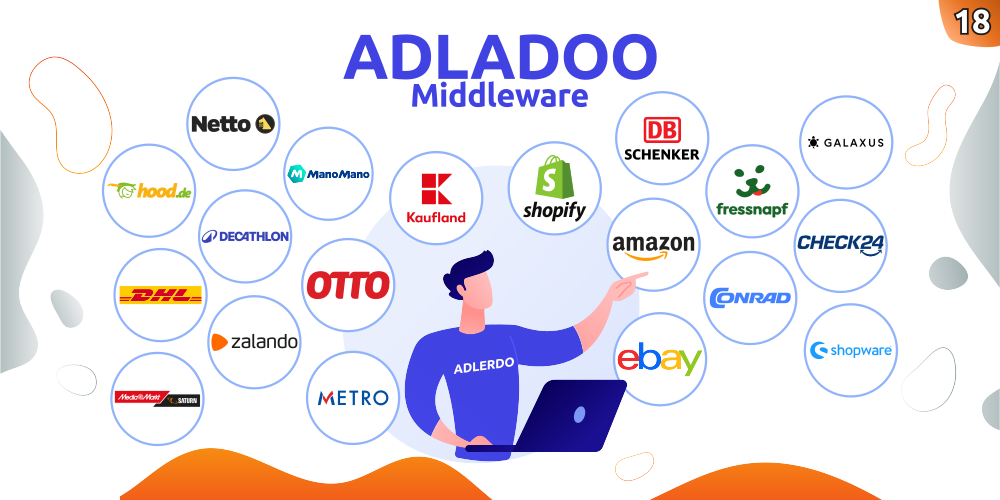
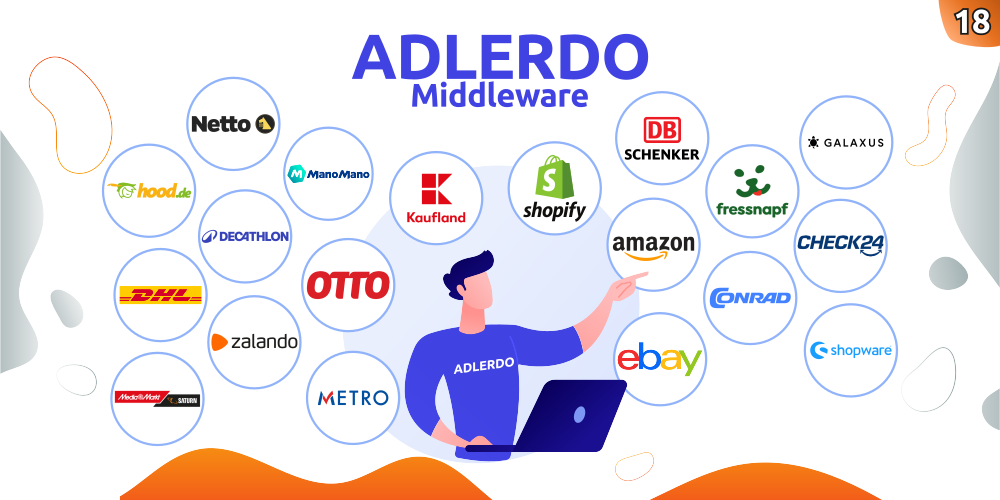
fix: Correct module name to AdlerDo and update marketing content
Renamed the module from "AdlaDoo Connector Lite" to "AdlerDo – Multichannel E-Commerce & EDI Middleware for Odoo" in the manifest.

Updated index.html description and banner image to reflect correct branding.

Changed region(s): [[0.341, 0.06, 0.682, 0.18]]

diff --git a/adlerdo_connector_lite/static/description/index.html b/adlerdo_connector_lite/static/description/index.html
@@ -1,7 +1,7 @@
 <section class="oe_container oe_dark">
     <div class="col-md-12">
         <h2 class="oe_slogan" style="font-size: 35px; color: #2C0091;">
-            <b>A Central Solution for Amazon, eBay, Kaufland and More</b>
+            <b>AdlerDo – Multichannel E-Commerce & EDI Middleware for Odoo</b>
         </h2>
     </div>
 </section>
@@ -9,66 +9,114 @@
 <section class="oe_container">
     <div class="col-md-12">
         <h2 class="oe_slogan" style="font-size: 22px; color: #000000;">
-            With the <strong>AdlaDoo Middleware</strong>, you manage your product, order, and inventory data across all marketplaces reliably, automatically, and fully under your control.<br/><br/>
-            Installed on your own Windows system, AdlaDoo offers <strong>maximum data security</strong>, <strong>full transparency</strong>, and <strong>significant time savings</strong> in your daily operations.<br/><br/>
-            No cloud dependency, no data leaks, no compromises.<br/>
-            Just one powerful tool that truly simplifies your multichannel sales whether you are selling on Amazon, eBay, Kaufland, Otto, or other platforms.<br/><br/>
-            <strong>AdlaDoo is more than just an interface</strong>  it is your <strong>central control unit</strong> for all marketplace processes:
-            from automated order processing to price and stock synchronization with your ERP system.<br/><br/>
-            Ideal for online retailers, wholesalers, and ERP based businesses that want to grow without giving up control of their operations.
+            Boost your E-Commerce with seamless integrations to Amazon, eBay, Kaufland, MediaMarkt, Otto & more. Built for Odoo.
         </h2>
     </div>
 </section>
 
 <section class="oe_container">
-    <div class="oe_row oe_spaced">
-        <h3 class="oe_slogan" style="font-size: 30px; color: #2C0091; text-align: center;"><b>Why AdlaDoo is the Right Choice</b></h3>
-
-        <div style="display: table; margin: 0 auto;">
-            <table style="width:100%; max-width: 800px; border-collapse: collapse;">
-                <tbody>
-                    <tr>
-                        <td style="padding: 10px; font-size: 18px; color: #000000;">
-                             Centralized control for all marketplaces and all your data in one place.
-                        </td>
-                    </tr>
-                    <tr>
-                        <td style="padding: 10px; font-size: 18px; color: #000000;">
-                             Local installation on your own Windows server, secure and cloud independent.
-                        </td>
-                    </tr>
-                    <tr>
-                        <td style="padding: 10px; font-size: 18px; color: #000000;">
-                             Seamless integration with Odoo or any ERP system.
-                        </td>
-                    </tr>
-                    <tr>
-                        <td style="padding: 10px; font-size: 18px; color: #000000;">
-                             Fast setup provided by our expert team if needed.
-                        </td>
-                    </tr>
-                    <tr>
-                        <td style="padding: 10px; font-size: 18px; color: #000000;">
-                             Scalable for growing needs, perfect for small and medium businesses.
-                        </td>
-                    </tr>
-                </tbody>
-            </table>
-        </div>
+    <div class="col-md-12">
+        <h3 class="oe_slogan" style="font-size: 22px; color: #000000;">
+            🚀 What is AdlerDo?
+        </h3>
+        <p style="font-size: 18px; color: #000000;">
+            AdlerDo is a modular middleware solution for Odoo that connects your ERP system to leading marketplaces, suppliers, and fulfillment networks (FFN) – automating every step of your multichannel E-Commerce and EDI workflows.<br/><br/>
+            From product listings to stock synchronization, from order routing to supplier onboarding – AdlerDo brings everything into one centralized, scalable system, fully integrated with Odoo.
+        </p>
     </div>
 </section>
 
+<section class="oe_container">
+    <div class="col-md-12">
+        <h3 class="oe_slogan" style="font-size: 22px; color: #000000;">
+            🌍 Supported Platforms & Channels
+        </h3>
+        <ul style="font-size: 18px; color: #000000;">
+            <li>✅ Amazon (FBA & FBM)</li>
+            <li>✅ eBay</li>
+            <li>✅ Kaufland.de</li>
+            <li>✅ MediaMarkt & Saturn (via EDI)</li>
+            <li>✅ Otto Market</li>
+            <li>✅ Allegro</li>
+            <li>✅ FFN (Fulfillment Networks)</li>
+            <li>✅ Supplier systems (CSV, XML, API, FTP)</li>
+            <li>✅ Custom third-party stores via API or EDI</li>
+        </ul>
+    </div>
+</section>
 
+<section class="oe_container">
+    <div class="col-md-12">
+        <h3 class="oe_slogan" style="font-size: 22px; color: #000000;">
+            🔧 Key Features
+        </h3>
+        <ul style="font-size: 18px; color: #000000;">
+            <li>📦 Multichannel Product Sync – Automatically synchronize product listings, prices, stock levels, and categories.</li>
+            <li>🔁 Real-time Order Flow – Import, route, and update orders from multiple marketplaces – directly into Odoo.</li>
+            <li>🔗 Supplier & EDI Integration – Automate catalog imports, availability, and pricing from suppliers. Full EDI support for B2B partners.</li>
+            <li>🧾 Pricing & VAT Automation – Custom pricing rules, multi-country VAT logic, and shipping methods per channel.</li>
+            <li>🔄 Dropshipping & Stock Sync – Connect to suppliers and fulfillment partners for automatic dropship workflows.</li>
+            <li>📊 Advanced Mapping & Logs – Full control with mapping tables, transformation rules, and technical logging.</li>
+            <li>🌐 Multi-language & Multi-currency Ready</li>
+        </ul>
+    </div>
+</section>
 
+<section class="oe_container">
+    <div class="col-md-12">
+        <h3 class="oe_slogan" style="font-size: 22px; color: #000000;">
+            👤 Who is it for?
+        </h3>
+        <p style="font-size: 18px; color: #000000;">
+            AdlerDo is made for:
+        </p>
+        <ul style="font-size: 18px; color: #000000;">
+            <li>Odoo integrators & developers</li>
+            <li>E-Commerce businesses on Odoo</li>
+            <li>Agencies managing multichannel clients</li>
+            <li>Digital consultants scaling online retail</li>
+            <li>Fulfillment & logistics providers</li>
+        </ul>
+        <p style="font-size: 18px; color: #000000;">
+            Whether you're selling 100 or 100,000 products, AdlerDo helps you automate and scale with confidence.
+        </p>
+    </div>
+</section>
 
-<hr style="width: 100%;height: 3px;background: #2C0091;margin: 20px 0;">
+<section class="oe_container">
+    <div class="col-md-12">
+        <h3 class="oe_slogan" style="font-size: 22px; color: #000000;">
+            💼 About the Developer
+        </h3>
+        <p style="font-size: 18px; color: #000000;">
+            TecSee GmbH is a certified Odoo & GoDigital Partner based in Germany. With over 10 years of experience in ERP, marketplace integration and automation, our team develops powerful, real-world solutions for digital growth. AdlerDo is part of our mission to make Odoo the beating heart of modern commerce.
+        </p>
+    </div>
+</section>
+
+<section class="oe_container">
+    <div class="col-md-12">
+        <h3 class="oe_slogan" style="font-size: 22px; color: #000000;">
+            📥 Try It Now
+        </h3>
+        <p style="font-size: 18px; color: #000000;">
+            🛒 Contact us for a demo, pricing, or partnership inquiry.
+        </p>
+        <p style="font-size: 18px; color: #000000;">
+            🌐 Website: <a href="https://www.tecsee.de" target="_blank">www.tecsee.de</a><br/>
+            📧 Email: <a href="mailto:info@tecsee.de">info@tecsee.de</a><br/>
+            📞 Phone: +49 7131 3821180
+        </p>
+    </div>
+</section>
+
 <section class="oe_container oe_dark">
     <div class="oe_row">
         <div class="oe_slogan text-center">
             <div style="color:#269900;">
                 <h3 style="color:#2C0091;font-size: 24px;">Have questions or want a demo?</h3><br>
                 <h4 style="color:#2C0091;font-size: 20px;">
-                    Email us: <a href="mailto:support@tecsee.de">kontakt@tecsee.de</a><br/>
+                    Email us: <a href="mailto:kontakt@tecsee.de">kontakt@tecsee.de</a><br/>
                     Website: <a href="https://www.tecsee.de" target="_blank">www.tecsee.de</a>
                 </h4>
             </div>

diff --git a/adlerdo_connector_lite/__manifest__.py b/adlerdo_connector_lite/__manifest__.py
@@ -1,6 +1,6 @@
 # -*- coding: utf-8 -*-
 {
-    'name': "AdlaDoo Connector Lite",
+    'name': "AdlerDo – Multichannel E-Commerce & EDI Middleware for Odoo",
 
     'summary': "marketplace reporting & lead generation tool for Odoo",
 
